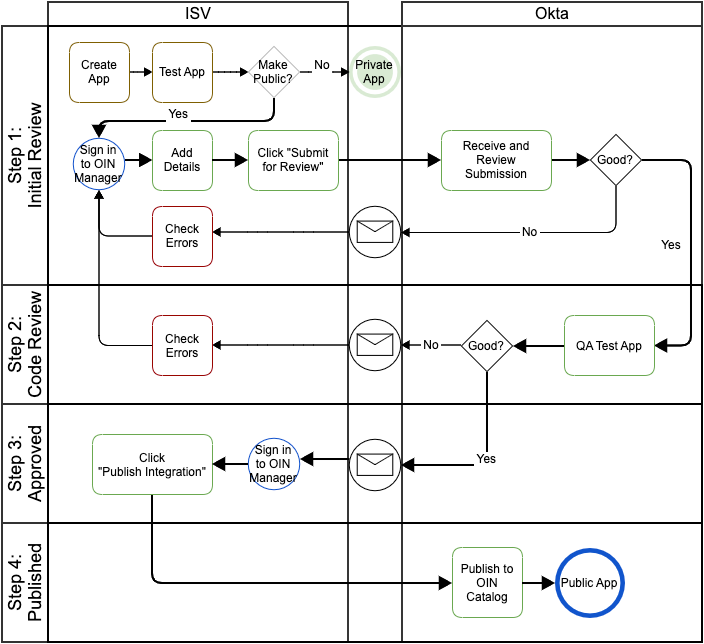
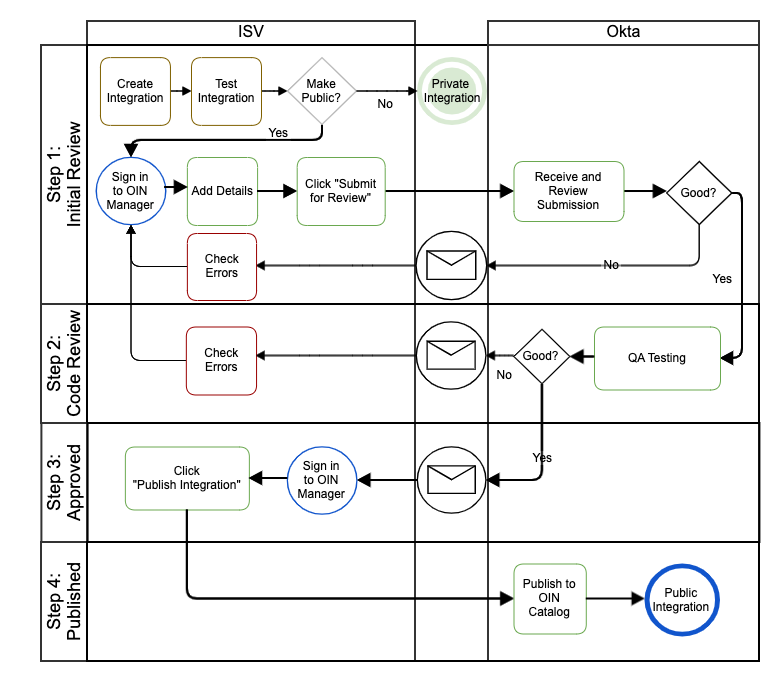
Resolves developer confusion around app and integration usage
There is confusion in the developer sphere around the usage of 'app' vs 'integration' within our documentation, particularly for the OIN docs.

This commit checks in all the changes for the OIN submission guide.

Associated with [OKTA-294844](https://oktainc.atlassian.net/browse/OKTA-294844)

diff --git a/packages/@okta/vuepress-site/docs/guides/submit-app/submission1-general/index.md b/packages/@okta/vuepress-site/docs/guides/submit-app/submission1-general/index.md
@@ -2,46 +2,46 @@
 title: Configure general settings
 ---
 
-To start your app integration submission, open the [OIN Manager](https://oinmanager.okta.com) and click **Start Submission Form**.
+To start your integration submission, open the [OIN Manager](https://oinmanager.okta.com) and click **Start Submission Form**.
 
-Sign in using your development org credentials and click **Add New Submission** to create a new submission instance for your app integration.
+Sign in using your development org credentials and click **Add New Submission** to create a new submission instance.
 
-If you want to review an in-progress app submission, click **View** beside the app name.
+If you want to review an in-progress submission, click **View** beside the name of your integration.
 
-If you need to update an app, see [Update your published app](/docs/guides/submit-app/update-submission).
+If you need to update an integration, see [Update your published integration](/docs/guides/submit-app/update-submission).
 
-In the General Settings page, you need to fill in the basic information about your app:
+In the General Settings page, you need to fill in the basic information about your integration:
 
 ## App information
 
-* **Does your app exist in the OIN?** &mdash; If your app already exists in the OIN, provide the existing name so the App Analyst can locate it.
+* **Does your app exist in the OIN?** &mdash; If your integration already exists in the OIN, provide the existing name so the App Analyst can locate it.
 
-* **App name** &mdash; Provide a name for your app integration. This is the main title for your app in the OIN.
+* **App name** &mdash; Provide a name for your integration. This is the main title used for your integration in the OIN.
 
-* **App website** &mdash; Provide a link to your product or service homepage, or a specific location on your website where users can learn more about your app integration.
+* **App website** &mdash; Provide a link to your product or service homepage, or a specific location on your website where users can learn more about your integration.
 
-* **App category** &mdash; Specify a category for Okta to categorize your app in the OIN catalog.
+* **App category** &mdash; Specify a category for Okta to categorize your integration in the OIN catalog.
 
-* **App description** &mdash; Give a general description of your app and what the Okta integration does. For examples, see the overview section for any of the app integrations listed on the [OIN](https://www.okta.com/integrations/).
+* **App description** &mdash; Give a general description of your application and what the Okta integration does. For examples, see the overview section for any of the integrations listed on the [OIN](https://www.okta.com/integrations/).
 
-* **App icon** &mdash; Upload a .png, .jpg, or .gif file of your company logo to accompany the app in the catalog. The image should be less than 100k in size, and have dimensions less than 104 x 37 pixels to prevent resizing.
+* **App icon** &mdash; Upload a .png, .jpg, or .gif file of your company logo to accompany the integration in the catalog. The image should be less than 100k in size, and have dimensions less than 104 x 37 pixels to prevent resizing.
 
 ## Customer support
 
-* **Public support contact** &mdash; Include a public point of contact (support email or phone number) for users who need assistance with your app. You can also include a link to a FAQ or troubleshooting guide to help with common issues. This information is shared with the customers in the OIN catalog description.
+* **Public support contact** &mdash; Include a public point of contact (support email or phone number) for users who need assistance with your integration. You can also include a link to a FAQ or troubleshooting guide to help with common issues. This information is shared with the customers in the OIN catalog description.
 
-* **Escalation support contact** &mdash; This should be an email distribution list for Okta to use when contacting your company about your app. It can be a phone number, but ideally when there is an issue with your app, Okta wants to reach as many people as possible without creating any bottlenecks. Make sure that the contact provided here is not a generic contact such as `support@example.com` or a 1-800 number. The escalation contact should be a contact list that Okta can reach out to in any emergencies. This contact information is not shared with customers.
+* **Escalation support contact** &mdash; This should be an email distribution list for Okta to use when contacting your company about your integration. It can be a phone number, but ideally when there is an issue with your integration, Okta wants to reach as many people as possible without creating any bottlenecks. Make sure that the contact provided here is not a generic contact such as `support@example.com` or a 1-800 number. The escalation contact should be a contact list that Okta can reach out to in any emergencies. This contact information is not shared with customers.
 
 ## Test account
 
-OKTA App Analysts require a dedicated account on your app to run their tests. This account needs to be kept active beyond the submission period, in case Okta needs to update or troubleshoot a submission.
+OKTA App Analysts require a dedicated account on your application to run their tests. This account needs to be kept active beyond the submission period, in case Okta needs to update or troubleshoot a submission.
 
-* **Test account URL** &mdash; This is a static URL for Okta to sign on to your app. The account credentials you provide below must work for this URL.
+* **Test account URL** &mdash; This is a static URL for Okta to sign on to your application. The account credentials you provide below must work for this URL.
 
-* **Test account username or email** &mdash; The account name for Okta to use to sign on to your app. Our preferred account name is `isvtest@okta.com`
+* **Test account username or email** &mdash; The account name for Okta to use to sign on to your application. Our preferred account name is `isvtest@okta.com`
 
 * **Test account password** &mdash; Password for the test account.
 
-* **Additional instructions** &mdash; Include any other information that you think the App Analysts need to know about your app, the test account, or the testing configuration.
+* **Additional instructions** &mdash; Include any other information that you think the App Analysts need to know about your integration, the test account, or the testing configuration.
 
 <NextSectionLink/>

diff --git a/packages/@okta/vuepress-site/docs/guides/submit-app/overview/index.md b/packages/@okta/vuepress-site/docs/guides/submit-app/overview/index.md
@@ -1,36 +1,36 @@
 ---
-title: Publish an app integration with Okta Integration Network
+title: Overview
 ---
 
-The Okta Integration Network (OIN) is the identity industry’s broadest and deepest set of pre-built cloud integrations to manage access management, authentication, and provisioning. By adding your app to the OIN, you can gain exposure to thousands of Okta customers who can discover and deploy your app to millions of users. OIN apps speed adoption by simplifying configuration steps and reducing friction for your customers.
+The Okta Integration Network (OIN) is the identity industry’s broadest and deepest set of pre-built cloud integrations to manage access management, authentication, and provisioning. By adding your integration to the OIN, you can gain exposure to thousands of Okta customers who can discover your integration and deploy your application to millions of users. OIN integrations speed adoption by simplifying configuration steps and reducing friction for your customers.
 
-If you are an independent software vendor (ISV), Okta customer, or IT system integrator who wants to add their app integration to the [Okta Integration Network](https://www.okta.com/integrations/), read this guide for instructions on how to submit your app. Integrating your application with the Okta Integration Network is completely cost free.
+If you are an independent software vendor (ISV), Okta customer, or IT system integrator who wants to add their integration to the [Okta Integration Network](https://www.okta.com/integrations/), read this guide for instructions on how to submit your integration. Adding your integration to the Okta Integration Network is completely cost free.
 
 ## Protocols supported
 
-This guide covers app submissions that use one or more of the protocols:
+This guide covers submissions that use one or more of the protocols:
 
 * [OpenID Connect (OIDC)](https://openid.net/connect/)
-* [Security Assertion Markup Language (SAML)](https://en.wikipedia.org/wiki/SAML_2.0), Version 2.0
-* [System for Cross-domain Identity Management (SCIM)](http://www.simplecloud.info/), Versions 2.0 and 1.1
+* [Security Assertion Markup Language (SAML)](https://en.wikipedia.org/wiki/SAML_2.0)
+* [System for Cross-domain Identity Management (SCIM)](http://www.simplecloud.info/)
 
 ## Prerequisites
 
-As a prerequisite to submitting your app, you must have a functional app created and tested in accordance with one of our OIN guides:
+As a prerequisite to submission, you must have a functional integration created and tested in accordance with one of our OIN guides:
 
 * [Build a SCIM provisioning integration](/docs/guides/build-provisioning-integration/)
 * [Build a Single-Sign On integration](/docs/guides/build-sso-integration/before-you-begin/).
 
 ## Submission process
 
-After you have built a functioning app integration, a few steps are required to submit it for Okta review and publication in the OIN. In general:
+After you have built a functioning integration, a few steps are required to submit it for Okta review and publication in the OIN. In general:
 
 1. Create a customer-facing configuration guide.
-1. Submit your app to Okta through the OIN Manager tool. Your submission must provide Okta with the general and protocol-specific metadata needed to create a customized app for publication in the OIN.
-1. Work with Okta App Analysts who will test your application with your input and get your app published to the OIN App Catalog.
+1. Submit your integration to Okta through the OIN Manager tool. Your submission must provide Okta with the general and protocol-specific metadata needed to create a customized integration for publication in the OIN.
+1. Work with Okta App Analysts who will test your integration with your input and get it published to the OIN Catalog.
 
 If you need additional help with the publication process, you can post a question on the [Okta Developer Forum](https://devforum.okta.com/) or email us at <developers@okta.com>.
 
->**Note:** All apps in the OIN catalog are public. If you want to submit a private app request for: SCIM 1.1 apps, Profile Master apps, or apps that use a custom header expression for Header Auth, then use the SCIM App Wizard to create your app and send an email to <developers@okta.com>. Okta App Analysts will help you to create an internal-only app that is not included in the OIN.
+>**Note:** All integrations in the OIN catalog are public. If you want to submit a private integration request for applications that use SCIM 1.1 or Profile Mastering, or for applications that use a custom header expression for the Header Auth, then use the SCIM [App Integration Wizard](https://help.okta.com/en/prod/okta_help_CSH.htm#ext_Apps_App_Integration_Wizard) to create your integration and send an email to <developers@okta.com>. Okta App Analysts will work with you to create an internal-only integration that is not included in the OIN.
 
 <NextSectionLink/>

diff --git a/packages/@okta/vuepress-site/docs/guides/submit-app/submission2-specific/saml2/submit.md b/packages/@okta/vuepress-site/docs/guides/submit-app/submission2-specific/saml2/submit.md
@@ -8,7 +8,7 @@
 
 * **Is the audience URI the same for all tenants and environments?** &mdash; If **No**, enter which part of the audience URI is customizable. For example, the `subdomain` in `https://subdomain.example.com/saml2/`
 
-* **What signature algorithm is supported?** &mdash; An app in the OIN should support only the SHA256 algorithm.
+* **What signature algorithm is supported?** &mdash; An integration in the OIN should support only the SHA256 algorithm for the SAML signature.
 
 * **Link to configuration guide** &mdash; Your configuration guide (in either HTML or PDF format) should have step by step instructions on how to set up SSO between Okta and your systems. See [Prepare a customer-facing configuration guide](/docs/guides/submit-app/create-guide).
 
@@ -16,22 +16,22 @@
 
 * **Do you support SAML just-in-time provisioning?** &mdash; With Just-in-Time provisioning, you can use a SAML assertion to create regular and portal users on the fly the first time they try to log in. This eliminates the need to create user accounts in advance.
 
-* **Do you support receiving SAML user/group attribute statements?** &mdash; If **Yes**, the `key:value` pairs for the attribute statements should be specified in the test app.
+* **Do you support receiving SAML user/group attribute statements?** &mdash; If **Yes**, the `key:value` pairs for the attribute statements should be specified in the test application.
 
 * **What type(s) of sign-in flows do you support?** &mdash; Choose from IdP or SP initiated, or both.
 
-* **Force authentication?** &mdash; Select **Yes** if your app forces users to authenticate again, even if they have an existing session. If you select **Yes**, include how customers configure force authentication on your end? Provide the steps for Okta to test this forced authentication.
+* **Force authentication?** &mdash; Select **Yes** if your application forces users to authenticate again, even if they have an existing session. If you select **Yes**, include how customers configure force authentication on your end? Provide the steps for Okta to test this forced authentication.
 
-* **Do you support SP-initiated Single-Logout?** &mdash; If **Yes**, are you going to use the same single-logout certificate for all tenants? Single Logout URL and SP Issuer should be specified in the test app. Note that Okta only supports signed logout requests.
+* **Do you support SP-initiated Single-Logout?** &mdash; If **Yes**, are you going to use the same single-logout certificate for all tenants? Single Logout URL and SP Issuer should be specified in the test application. Note that Okta only supports signed logout requests.
   
-  * You will need to provide the certificate to the Okta App Analyst.
+  * You need to provide the certificate to the Okta App Analyst.
 
-* **Optional: Default Relay State** &mdash; The default relay state is the page your users will land on after they successfully sign on. If you have this configured, enter a specific application resource for an IDP initiated Single Sign-On scenario.
+* **Optional: Default Relay State** &mdash; The default relay state is the page where your users land after they successfully sign on. If you have this configured, enter a specific application resource for an IDP initiated Single Sign-On scenario.
 
 #### Review info
 
-* **How far along is your SAML integration?** &mdash; If your app is still **In development**, the Okta app analysts will need to know the estimated public availability for your app.
+* **How far along is your SAML integration?** &mdash; If your application is still **In development**, the Okta App Analysts need to know the estimated public availability for your application.
 
-* **Optional: link to demo video** &mdash; If you have prepared a video that explains how to configure access to your SAML app, enter the URL here. A short demo video showing your working test app helps expedite the review process. Please show the IdP and SP-initiated sign-in flows and sign-out (if applicable).
+* **Optional: link to demo video** &mdash; If you have prepared a video that explains how to configure access to your SAML application, enter the URL here. A short demo video showing your working test application helps expedite the review process. Please show the IdP and SP-initiated sign-in flows and sign-out (if applicable).
 
 * **Optional: link to the test results of a SAML validation tool** &mdash; Use the tool at <http://saml.oktadev.com> to validate your SAML Service Provider implementation. The results help expedite the review process.

diff --git a/packages/@okta/vuepress-site/docs/guides/submit-app/submission2-specific/scim/submit.md b/packages/@okta/vuepress-site/docs/guides/submit-app/submission2-specific/scim/submit.md
@@ -3,9 +3,9 @@
 
 * **Link to configuration guide** &mdash; Your configuration guide (in either HTML or PDF format) should have step by step instructions on how to set up provisioning between Okta and your systems. See [Prepare a customer-facing configuration guide](/docs/guides/submit-app/create-guide).
 
-* **Select provisioning features to be supported in the integration:** &mdash; These provisioning features should match what you have selected in the **Provisioning** tab in your SCIM application settings. For details on each of these options, see [Provisioning and Deprovisioning](https://help.okta.com/en/prod/okta_help_CSH.htm#ext_Provisioning_Deprovisioning_Overview).
+* **Select provisioning features to be supported in the integration:** &mdash; These provisioning features should match what you have selected in the **Provisioning** tab in the settings for your SCIM integration. For details on each of these options, see [Provisioning and Deprovisioning](https://help.okta.com/en/prod/okta_help_CSH.htm#ext_Provisioning_Deprovisioning_Overview).
 
-* **Base URL (enter “n/a” if the URL varies by tenant)** &mdash; Provide the base URL that your app uses when sending an outbound call to your SCIM server. This should be a production endpoint that customers will be using. If the the URL varies according to which tenant is using it (e.g. `lasvegas.example.com/scim/v2/` or `seattle.example.com/scim/v2`), then type `n/a`. Explain in your configuration guide how your users should construct the URL while configuring the settings for your application.
+* **Base URL (enter “n/a” if the URL varies by tenant)** &mdash; Provide the base URL that your integration uses when sending an outbound call to your SCIM server. This should be a valid production endpoint. If the the URL varies according to which tenant is using it (e.g. `lasvegas.example.com/scim/v2/` or `seattle.example.com/scim/v2`), then type `n/a`. Explain in your configuration guide how your users should construct the URL while configuring the settings for your application.
 
 * **Does your SCIM server support HTTP PATCH operations for modifying resources?** &mdash; Select **Yes** if your SCIM server supports updates made through a PATCH.
 
@@ -16,10 +16,10 @@
 
 * **Does your SCIM `userName` attribute value follow an email address format?** &mdash; Select **Yes** if your SCIM server uses a name@company.TLD format for the unique userName attribute.
 
-* **Optional: link to demo video** &mdash; If you have a video that explains how to configure access to your SCIM app, enter the URL for it here.
+* **Optional: link to demo video** &mdash; If you have a video that explains how to configure access to your SCIM application, enter the URL for it here.
 
-* **Link to Runscope test results** &mdash; This should be a link to the Runscope site test results showing that your app has successfully completed the SPEC test suite. See [Test your SCIM API](/docs/guides/build-provisioning-integration/test-scim-api/).
+* **Link to Runscope test results** &mdash; This should be a link to the Runscope site test results showing that your application has successfully passed the SPEC test suite. See [Test your SCIM API](/docs/guides/build-provisioning-integration/test-scim-api/).
 
-* **Link to Runscope CRUD test results** &mdash; This should be a link to the Runscope site test results showing that your app has successfully completed the CRUD test suite. See [Test your Okta integration](/docs/guides/build-provisioning-integration/test-scim-app/).
+* **Link to Runscope CRUD test results** &mdash; This should be a link to the Runscope site test results showing that your application has successfully passed the CRUD test suite. See [Test your Okta integration](/docs/guides/build-provisioning-integration/test-scim-app/).
 
-These Runscope test results must show that all tests are passing before the Okta App Analysts approve a SCIM app integration for the OIN.
+These Runscope test results must show that all tests are passing before the Okta App Analysts approve a SCIM integration for the OIN.

diff --git a/packages/@okta/vuepress-site/docs/guides/submit-app/submission2-specific/index.md b/packages/@okta/vuepress-site/docs/guides/submit-app/submission2-specific/index.md
@@ -2,33 +2,33 @@
 title: Configure protocol-specific settings
 ---
 
-Your app needs to support at least one protocol for interacting with Okta: SAML or OIDC for authentication, or SCIM for provisioning.
+Your application needs to support at least one protocol for interacting with Okta: SAML or OIDC for authentication, or SCIM for provisioning.
 
-Protocol support details can be submitted all together or asynchronously. For example, if your app currently only supports SAML and SCIM, you can create the submission with the SAML and SCIM protocol details. At a later date, when you add OIDC support in your app, you can return to your integration submission, activate the OIDC support panel, and add in the details needed for Okta to enable OIDC support.
+Protocol support details can be submitted all together or asynchronously. For example, if your application currently only supports SAML and SCIM, you can create the submission with the SAML and SCIM protocol details. At a later date, when you add OIDC support in your application, you can return to your integration submission, activate the OIDC support panel, and add in the details needed for Okta to enable OIDC support.
 
 For each protocol, click on the appropriate tab name and change the protocol support drop-down box from **Off** to **On**.
 
 ## Instance URL
 
-For each protocol, enter the **Okta instance URL** for your app in the first field.
+For each protocol, enter the **Okta instance URL** for your integration in the first field.
 
 To get your Okta instance URL:
 
 1. Open the Okta Admin Console in your development org.
 1. If you are not in the **Classic UI**, switch to that view.
-1. Click **Applications > Applications** to see all the applications in your org.
-1. Click on the name of the application you are going to submit. The browser opens the app settings page. Confirm that the app settings match what you want as the global defaults for all customers.
-1. In your browser, click on the address bar showing the current URL and copy it to your clipboard. This is the Okta instance URL for your app.
-1. Back in the OIN Manager, paste that URL into your app submission.
+1. Click **Applications > Applications** to see all the integrations in your org.
+1. Click on the name of the integration you are going to submit. The browser opens the settings page. Confirm that the settings match what you want as the global defaults for all customers.
+1. In your browser, click on the address bar showing the current URL and copy it to your clipboard. This is the Okta instance URL for your integration.
+1. Back in the OIN Manager, paste that URL into your submission.
   
   For example:
-  ![Okta OIDC instance URL](/img/oin/isv-portal_okta-instance-url-oidc.png "Okta instance URL for an OIDC app in the browser address bar")
+  ![Okta OIDC instance URL](/img/oin/isv-portal_okta-instance-url-oidc.png "Okta instance URL for an OIDC integration in the browser address bar")
 
 <!--
 1. Click the **General** tab.
 1. Go to the **App Embed Link** section and copy the text in the Embed Link field:
    ![App Embed Link](/img/oin/isv-portal_app-embed-link.png "App Embed Link GUI in the Application settings")
-1. Paste that value into your app submission.
+1. Paste that value into your submission.
 -->
 
 ## Protocol-specific settings
@@ -37,8 +37,8 @@ Each of the supported protocols has different configuration settings for the rem
 
 <StackSelector snippet="submit" />
 
-As you add configuration information about your app to the submission page, the indicators in the top right show your progress towards 100% completion.
+As you add configuration information about your integration to the submission page, the indicators in the top right show your progress towards 100% completion.
 
-You must include all required information before you can click the **Submit for Review** button to move your app into the submission phase.
+You must include all required information before you can click the **Submit for Review** button to move your integration into the submission phase.
 
 <NextSectionLink/>

diff --git a/packages/@okta/vuepress-site/docs/guides/submit-app/create-guide/index.md b/packages/@okta/vuepress-site/docs/guides/submit-app/create-guide/index.md
@@ -2,9 +2,9 @@
 title: Prepare a customer-facing configuration guide
 ---
 
-A configuration guide helps your customers understand how to configure your app in Okta to meet their needs.
+A configuration guide helps your customers understand how to configure your Okta integration to work with your cloud application.
 
-You need to provide a configuration guide as part of the OIN submission process. Your guide is provided to administrators through the Okta Admin Console. Okta checks your document for general adherence to the configuration guide instructions. After your app is published to the OIN, you can make the link public or customer‐accessible.
+You need to provide a configuration guide as part of the OIN submission process. Your guide is provided to administrators through the Okta Admin Console. Okta checks your document for general adherence to the configuration guide instructions. After your integration is published to the OIN, you can make the link public or customer‐accessible.
 
 You can create the guide in whatever format works best for you: a Web page, a Google or Word doc, or a PDF are all acceptable.
 
@@ -31,7 +31,7 @@ Your configuration guide should include the following sections:
 
 ### Prerequisites
 
-In this section, specify any prerequisites required before your customer configures your provisioning integration in Okta. Examples may include enabling specific Okta features or SKUs, enabling API access to your SCIM server, or adding a particular version of an app in Okta.
+In this section, specify any prerequisites required before your customer configures your integration in Okta. Examples may include enabling specific Okta features or SKUs, enabling API access to your SCIM server, or adding a particular version of an integration in Okta.
 
 For example:
 
@@ -39,7 +39,7 @@ For example:
 
 ### Supported Features
 
-In this section of your guide, you want to outline what features your app supports. For example:
+In this section of your guide, you want to outline what features your application supports. For example:
 
 * IdP-initiated SSO
 * SP-initiated SSO
@@ -58,11 +58,11 @@ Also include any restrictions. For example:
 
 ### Procedure
 
-This section constitutes the majority of your guide and explains all the configuration steps needed to get your customers set up with your app. Detail all settings and include any screenshots from your app that can assist the user.
+This section constitutes the majority of your guide and explains all the configuration steps needed to get your customers set up with your integration. Detail all settings and include any screenshots that can assist the user.
 
 Also include any best practices for your procedure, such as guidance on setting mappings for attributes, especially required attributes that don't have a default mapping. For example:
 
-> The External ID is a required attribute, but it doesn't have a default mapping. This is because some customers prefer to set it to EmployeeNumber, and others like to set it to emailAddress. Assign the mapping to the correct value for your organization.
+> The External ID is a required attribute, but it doesn't have a default mapping. This is because some customers prefer to set it to `EmployeeNumber`, and others like to set it to `emailAddress`. Assign the mapping to the correct value for your organization.
 
 ### Troubleshooting and Tips
 

diff --git a/packages/@okta/vuepress-site/docs/guides/submit-app/faqs/index.md b/packages/@okta/vuepress-site/docs/guides/submit-app/faqs/index.md
@@ -1,16 +1,16 @@
 ---
-title: Frequently Asked Questions (Provisioning)
+title: Frequently Asked Questions
 ---
 
 ## OIN Technical Questions
 
 **Q: My customer is asking for Active Directory (AD) integration. If I integrate with Okta, can I connect to my customer's on-premise directory?**
 
-Yes. One of the key benefits of developing a pre-built integration with Okta is that you can leverage our existing Active Directory support. By integrating with Okta (for Single Sign-On (SSO) or provisioning), you effectively have the ability to integrate with your customer's on-premise AD or LDAP infrastructure for authentication. Your end users can sign in to your cloud app using their corporate password. You also be able to do things like use AD groups to drive access rights for authentication and provisioning policies.
+Yes. One of the key benefits of developing a pre-built integration with Okta is that you can leverage our existing Active Directory support. By integrating with Okta (for Single Sign-On (SSO) or provisioning), you effectively have the ability to work with your customer's on-premise AD or LDAP infrastructure for authentication. Your end users can sign in to your cloud application using their corporate password. You also be able to do things like use AD groups to drive access rights for authentication and provisioning policies.
 
-**Q: Is the IdP session time out a setting that an Okta administrator can change? And if so, can it be changed on a per application basis, or is it a global setting for all of the user's applications?**
+**Q: Is the IdP session time out a setting that an Okta administrator can change? And if so, can it be changed for each integration, or is it a global setting for all of the user's integrations?**
 
-Yes, the session time out default is two hours, but the Okta administrator can customize the default. This session time out is an IdP setting and therefore it is global and applies to all applications in an Okta org. See the "Creating Sign-on Policies and Adding Rules" section in our [Security Policies](https://help.okta.com/en/prod/okta_help_CSH.htm#ext_Security_Policies) documentation.
+Yes, the session time out default is two hours, but the Okta administrator can customize the default. This session time out is an IdP setting and therefore it is global and applies to all integrations in an Okta org. See the "Creating Sign-on Policies and Adding Rules" section in our [Security Policies](https://help.okta.com/en/prod/okta_help_CSH.htm#ext_Security_Policies) documentation.
 
 ### SAML
 

diff --git a/packages/@okta/vuepress-site/docs/guides/submit-app/update-submission/index.md b/packages/@okta/vuepress-site/docs/guides/submit-app/update-submission/index.md
@@ -1,18 +1,18 @@
 ---
-title: Update your published app
+title: Update your published integration
 ---
 
-If you need to change your app that is already published in the OIN catalog, you can visit the [OIN Manager](https://oinmanager.okta.com/) and create a new version of the app.
+If you need to change your integration that is already published in the OIN catalog, you can visit the [OIN Manager](https://oinmanager.okta.com/) and create a new version of the integration.
 
 1. Sign on to the OIN Manager using the credentials for your original dev org.
-1. The published app appears on your app integrations page. Click **Update**.
+1. The published integration appears on your integrations page. Click **Update**.
 
-    This creates a new instance of your application where you can safely change any of the parameters. Your existing app remains in the OIN catalog with the previous settings until this new version is published.
+    This creates a new instance of your integration where you can safely change any of the parameters. Your existing integration remains in the OIN catalog and keeps the previous settings until this new version is published.
 1. Update any of the parameters for your existing protocols, or add a new protocol depending on your needs.
 
-    If you need to leave the in-progress submission at any point, you can return to it through the OIN Manager. When you sign on again, you will see the published version and your in-progress version. Click **View** on the in-progress version to pick up where you left off.
+    If you need to leave your in-progress submission at any point, you can return to it through the OIN Manager. When you sign on again, you will see the published version and your in-progress version. Click **View** on the in-progress version to pick up where you left off.
 1. When you have completed the updates, or have filled the new protocol information so that indicator shows 100% complete, you can click **Submit for Review**.
 
     At this point, the Okta App Analysts are notified and your submission undergoes the same process flow as the original submission.
 
-    After the new version of the app has reached the **Publish** stage and been published by Okta, the new version replaces the old one in the OIN catalog.
+    After the new version of the integration has reached the **Publish** stage and been published by Okta, the new version replaces the old one in the OIN catalog.

diff --git a/packages/@okta/vuepress-site/docs/guides/submit-app/submission3-process/index.md b/packages/@okta/vuepress-site/docs/guides/submit-app/submission3-process/index.md
@@ -1,14 +1,14 @@
 ---
-title: Understand the app submission process
+title: Understand the submission process
 ---
 
-The submission review process begins after you click **Submit for Review** in the OIN Manager. Okta sends you an email notification that your app is now queued for review by an Okta App Analyst, along with a date by which the initial review will be completed.
+The submission review process begins after you click **Submit for Review** in the OIN Manager. Okta sends you an email notification that your integration is now queued for review by an Okta App Analyst, along with a date by which the initial review should be completed.
 
-The OIN Manager always shows the current status of your app.
+The OIN Manager always shows the current status of your integration.
 
 ### Step 1: Initial Review
 
-* **Pending review by Okta** &mdash; Okta App Analysts are notified of your submission. Okta App Analysts review the app submission and notify you by email when the submission review is complete.
+* **Pending review by Okta** &mdash; Okta App Analysts are notified of your submission. Okta App Analysts review the submission and notify you by email when the submission review is complete.
 * **Action required** &mdash; Okta has reviewed your submission and found issues that require your correction. Check your email for results from the Okta initial review. Sign in to OIN Manager, update the requested details, and click **Submit for Review**. After the submission review is complete, the App Analyst moves it to Step 2 for QA testing.
 
 ### Step 2: Code Review
@@ -18,12 +18,12 @@ The OIN Manager always shows the current status of your app.
 
 ### Step 3: Approved
 
-* **Action required** &mdash; Your app submission has passed the QA testing process. Click **Publish Integration** to approve it for publication to the OIN catalog.
+* **Action required** &mdash; Your submission has passed the QA testing process. Click **Publish Integration** to approve it for publication to the OIN catalog.
 * **Pending review by Okta** &mdash; An Okta App Analysts will publish your submission within 3 business days.
 
 ### Step 4: Published
 
-* Congratulations, your app is published in the OIN!
+* Congratulations, your integration is published in the OIN!
 
 The following flowchart outlines the entire process:
 

diff --git a/packages/@okta/vuepress-site/docs/guides/submit-app/submission2-specific/openidconnect/submit.md b/packages/@okta/vuepress-site/docs/guides/submit-app/submission2-specific/openidconnect/submit.md
@@ -1,7 +1,7 @@
 * **Redirect URI** &mdash; Provide one or more login redirect URIs where Okta sends the OAuth responses. The URIs must be absolute URIs. You must add at least one redirect URI.
 
-* **Optional: Initiate Login URI** &mdash; Provide a URI if you want the Okta integration to handle redirecting your users to your app to start the sign-in request. When end users click a tile in their Okta dashboard, they are redirected to the `initiate_login_uri` of the client application, which constructs an authorization request and redirects the end user back to Okta.
+* **Optional: Initiate Login URI** &mdash; Provide a URI if you want the Okta integration to handle redirecting your users to your application to start the sign-in request. When end users click a tile in their Okta dashboard, they are redirected to the `initiate_login_uri` of the client application, which constructs an authorization request and redirects the end user back to Okta.
 
-* **Platform** &mdash; Select from the drop-down box whether your app is deployed as a web app, a native app, or as a single page app.
+* **Platform** &mdash; Select from the drop-down box whether your application is a web app, a native app, or a single page app.
 
-* **Optional: Post Logout Redirect URI** &mdash; If you have a logout URI that you want to send your end user to after they log out of your app, add it here. It must be an absolute URI.
+* **Optional: Post Logout Redirect URI** &mdash; If you have a logout URI that you want to send your end user to after they log out of your application, add it here. It must be an absolute URI.

diff --git a/packages/@okta/vuepress-site/docs/guides/submit-app/index.md b/packages/@okta/vuepress-site/docs/guides/submit-app/index.md
@@ -1,5 +1,5 @@
 ---
-title: OIN - Publish an app integration
+title: OIN - Publish an integration
 meta:
   - name: description
     content: Use this guide to learn how to submit your integration to Okta for publication in the Okta Integration Network.
